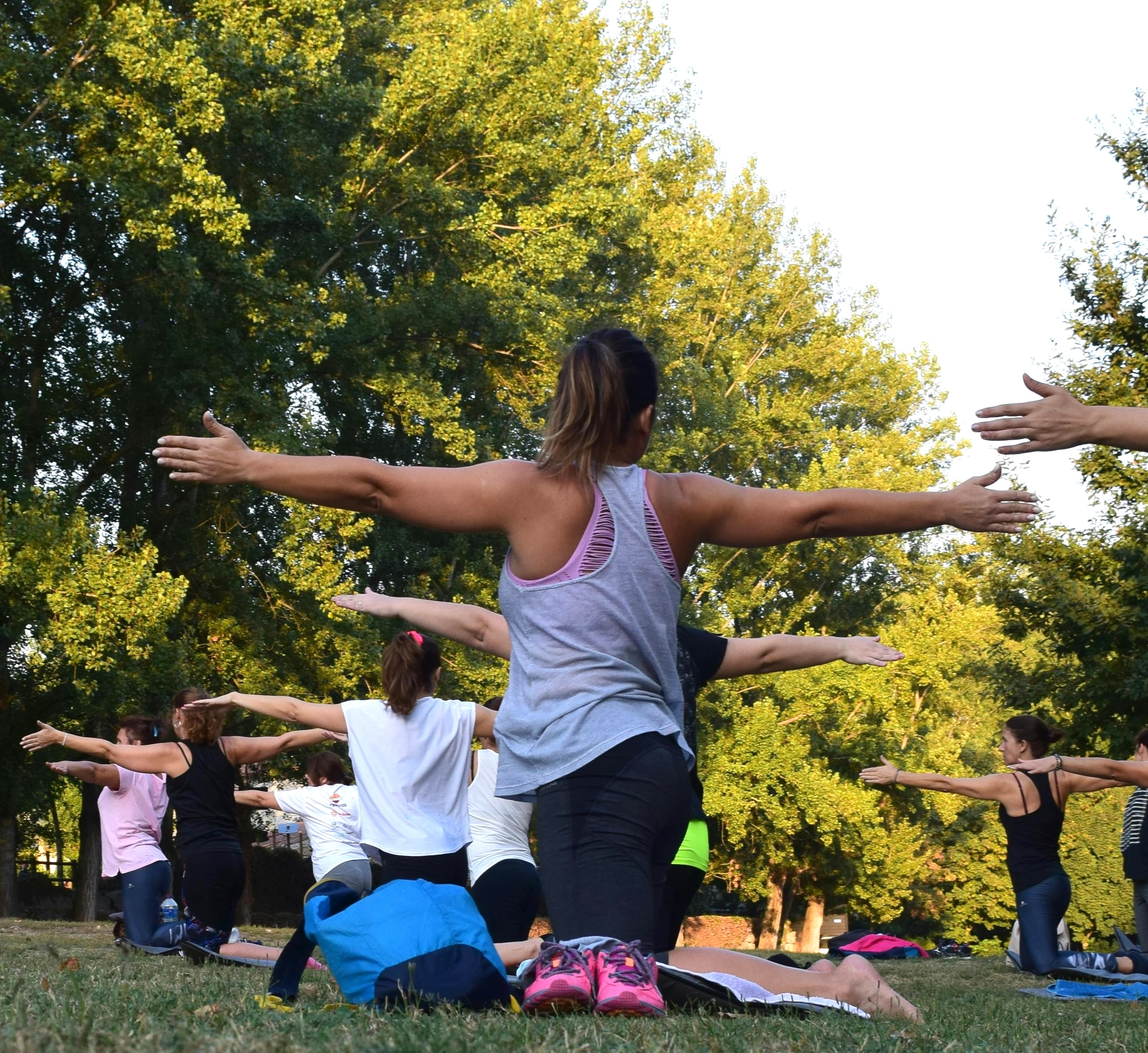
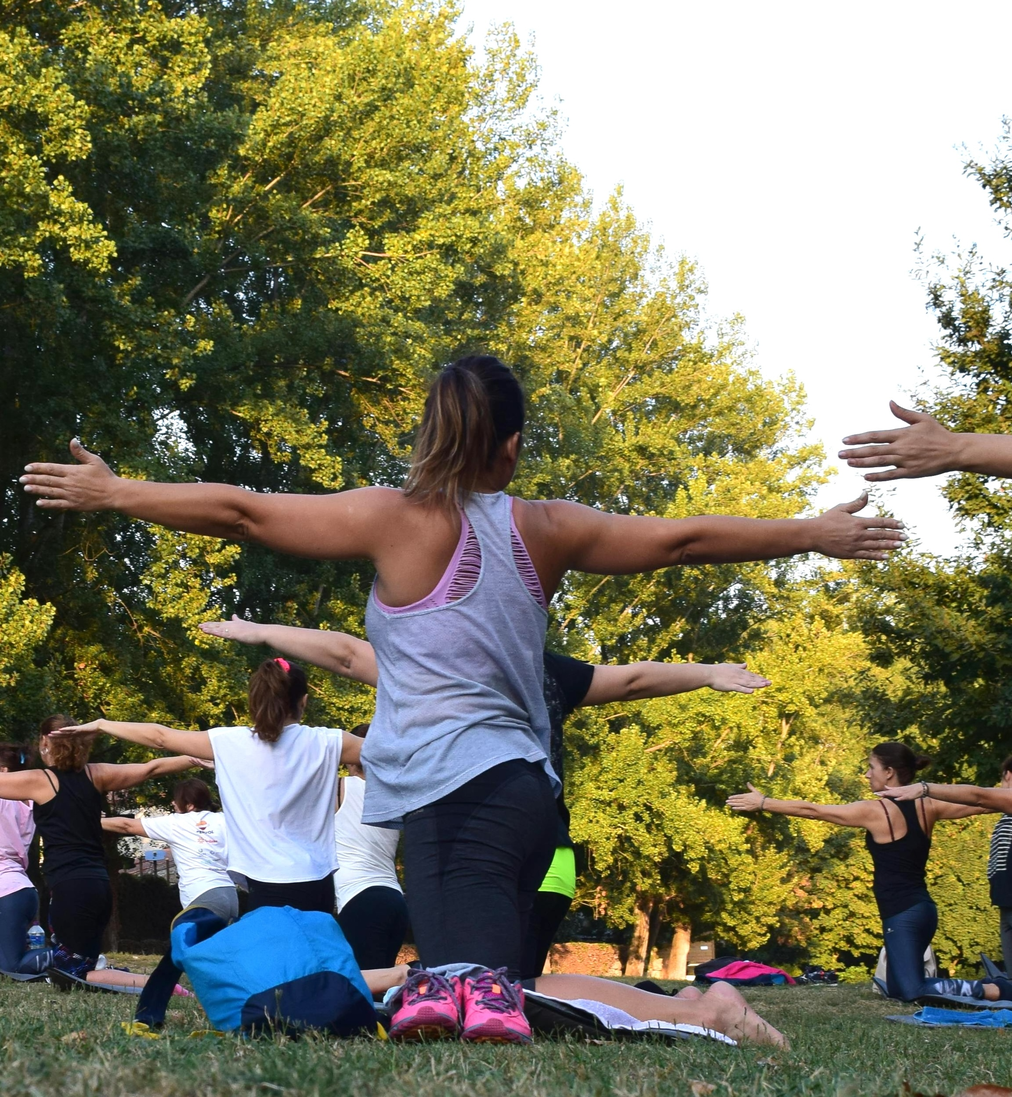
working on standardizing image sizing

diff --git a/public/styles/styles.css b/public/styles/styles.css
@@ -87,8 +87,8 @@ https://www.colorhexa.com/cfffdc
 
 
 .timeline-example-image{
-  width: 80%;
-  height: 80%;
+  width: 70%;
+  height: 70%;
   /* margin: auto; */
   align-content: center;
   align-self: center;
